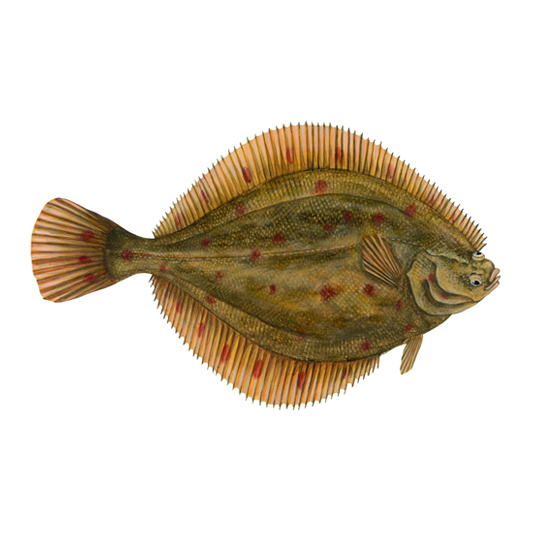
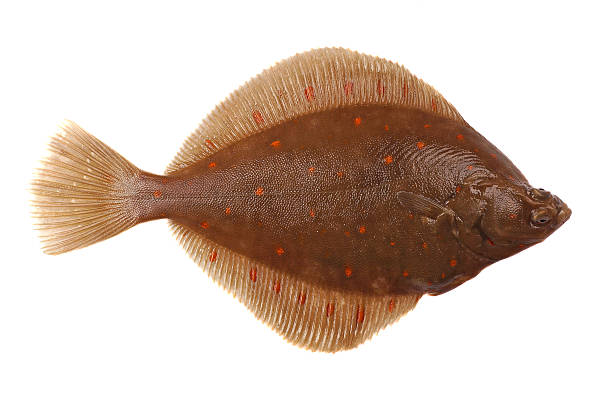
Add content and syling to "second" section.
Replaced plaice.jpg with alternative image.

diff --git a/index.html b/index.html
@@ -39,10 +39,18 @@
     </div>
 
 
-    <div class="second"><p>22222</p></div>
+    <div class="second">
+        <p class="imagehead">Oh look, a bunch of "Plaiceholders". Laugh damn it.</p>
+        <div class="gallery">
+            <div class="galleryitem"><img class="gallerypic" src="images/plaice.jpg"><p>Some amazing text that relates to the image above!</p></div>
+            <div class="galleryitem"><img class="gallerypic" src="images/plaice.jpg"><p>Some amazing text that relates to the image above!</p></div>
+            <div class="galleryitem"><img class="gallerypic" src="images/plaice.jpg"><p>Some amazing text that relates to the image above!</p></div>
+            <div class="galleryitem"><img class="gallerypic" src="images/plaice.jpg"><p>Some amazing text that relates to the image above!</p></div>
+        </div>
+    </div>
 
     <div class="third">
-        <p class="quote">Lots of insprirational drivel from some important or infuential person. Drivel which has no doubt been passed around like the village bike
+        <p class="quote">"Lots of inspirational drivel from some important or influential person. Drivel which has no doubt been passed around like the village bike
         and is now so far removed from the original saying that all of the original intent is now lost, leaving only its bastardised remains and twisted sentiment, which
         will doubtless be used to "win" arguments on the internet"</p>
         <p class="attribution">Name of Quote-Giver</p>

diff --git a/style.css b/style.css
@@ -76,8 +76,35 @@ body > *{
     }
 
 .second {
-    background: brown;
+    flex-direction: column;
+    align-items: center;
 }
+
+    .imagehead {
+        color:#1f2937;
+        font-size: 30px;
+        font-weight: bolder;
+    }
+
+    .gallery {
+        display: flex;
+        flex-wrap: wrap;        
+        justify-content: center;
+    }
+
+    .galleryitem {
+        text-align: center;
+        color: black;
+        font-size: 15px;;
+        max-width: 200px;
+        margin: 20px;
+    }
+
+    .gallerypic {
+        max-width:100%;
+        border: 2px solid #3882f6;
+        border-radius: 10%;
+    }
 
 .third {
     background: #e5e7eb;

diff --git a/readme.md b/readme.md
@@ -4,4 +4,4 @@ in order to demonstrate the skills learned so far, including basic HTML, CSS, an
 
 
 
-plaice.jpg belongs to http://www.cornwallgoodseafoodguide.org.uk/
+plaice.jpg from https://www.istockphoto.com/photo/plaice-fish-gm157216161-22235469
